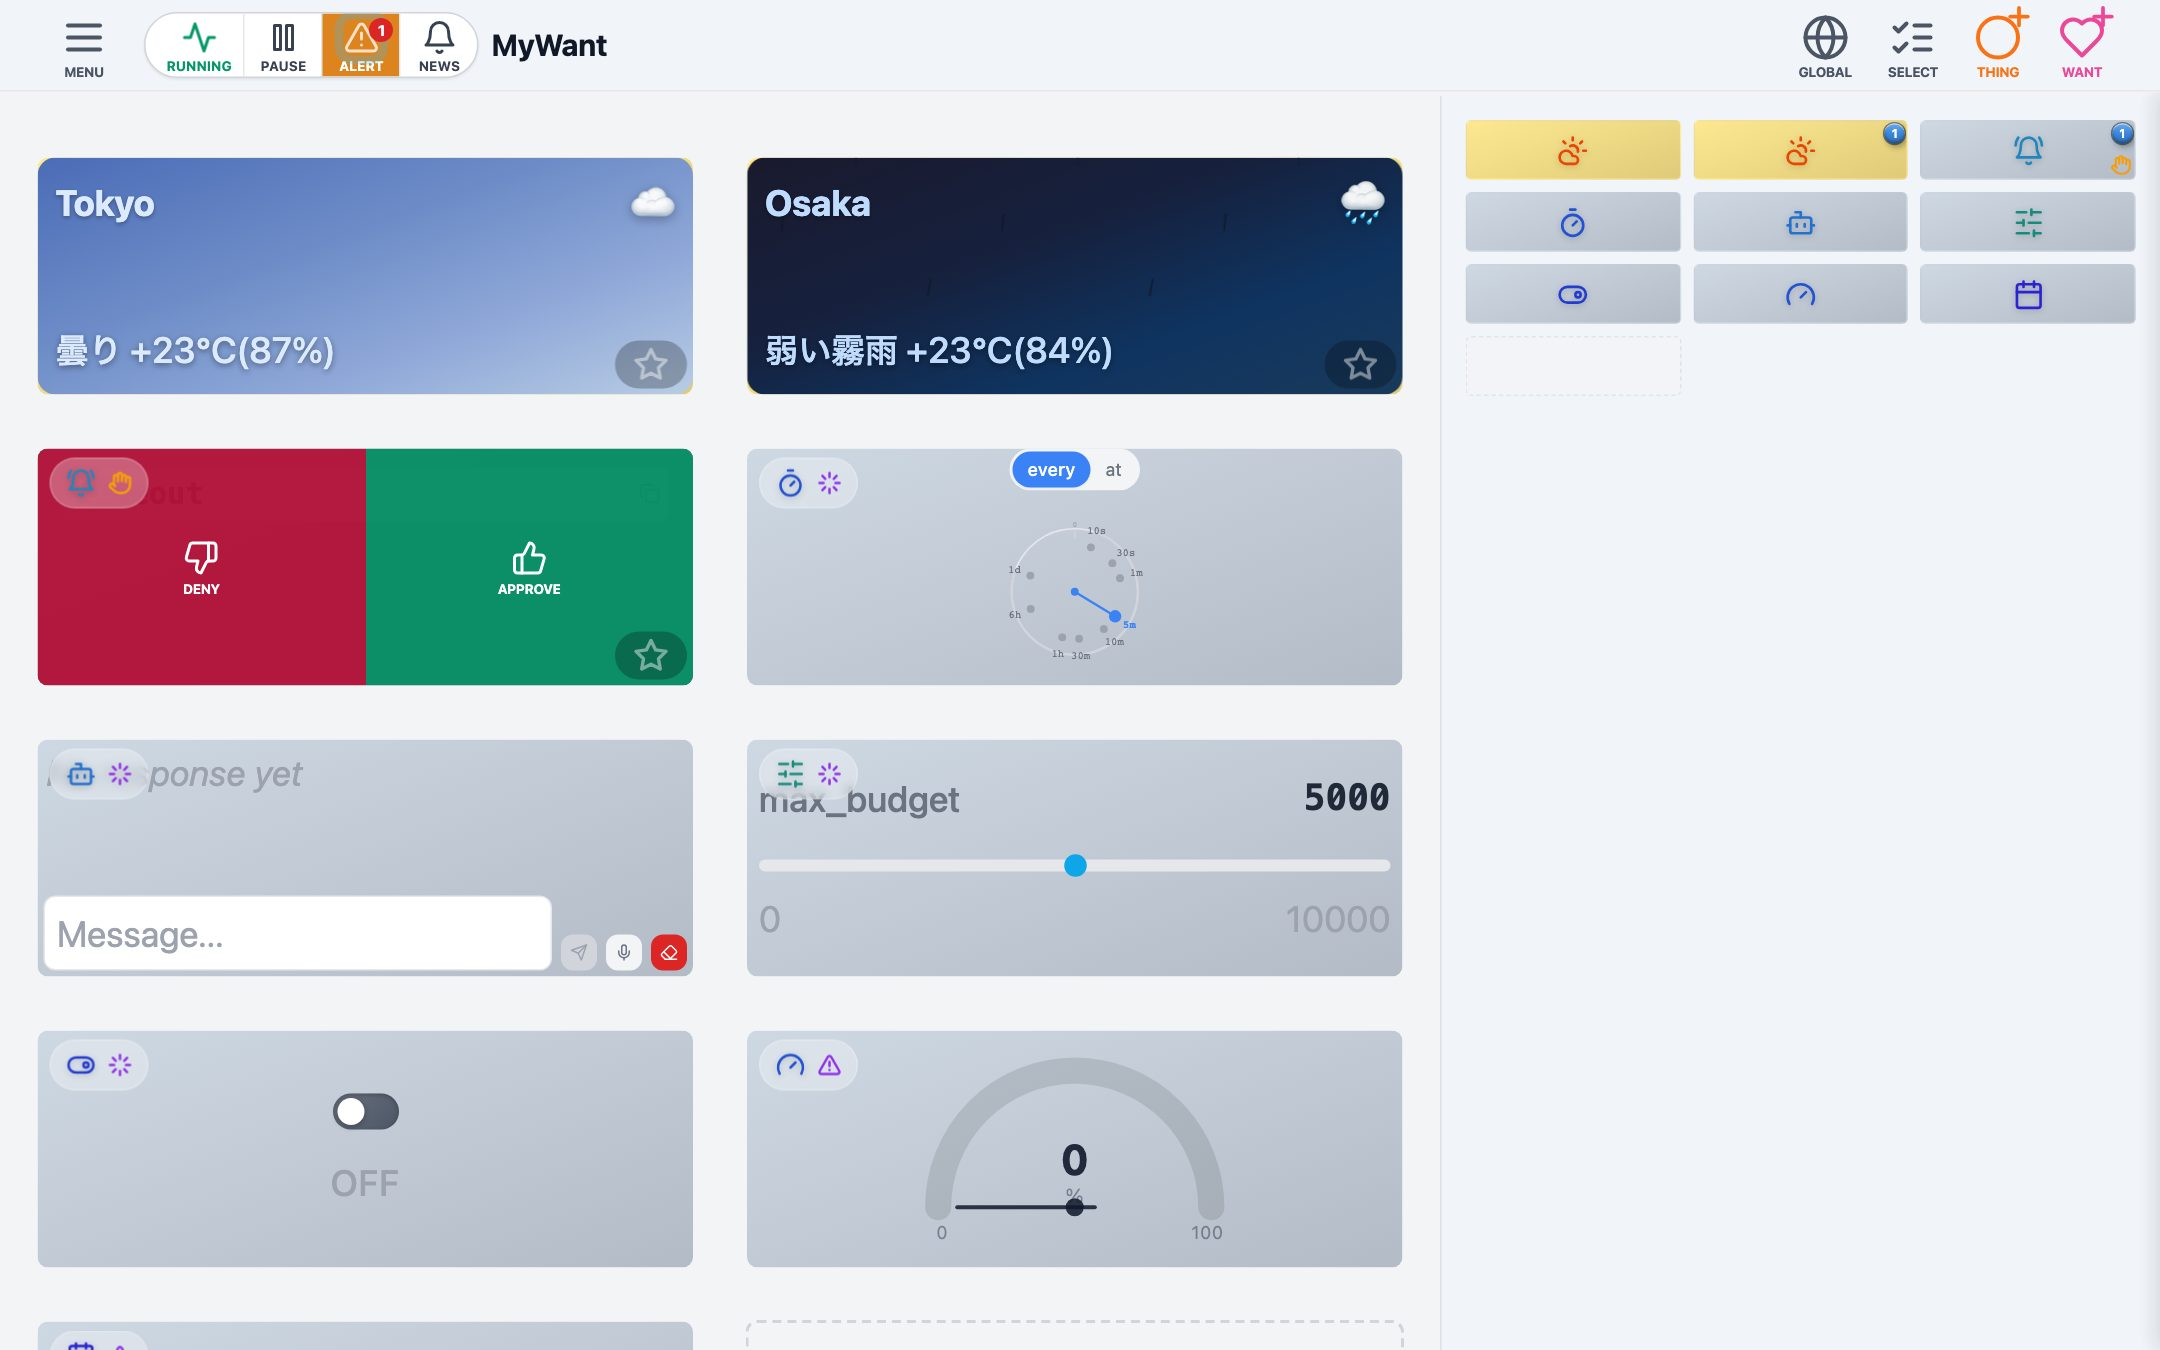
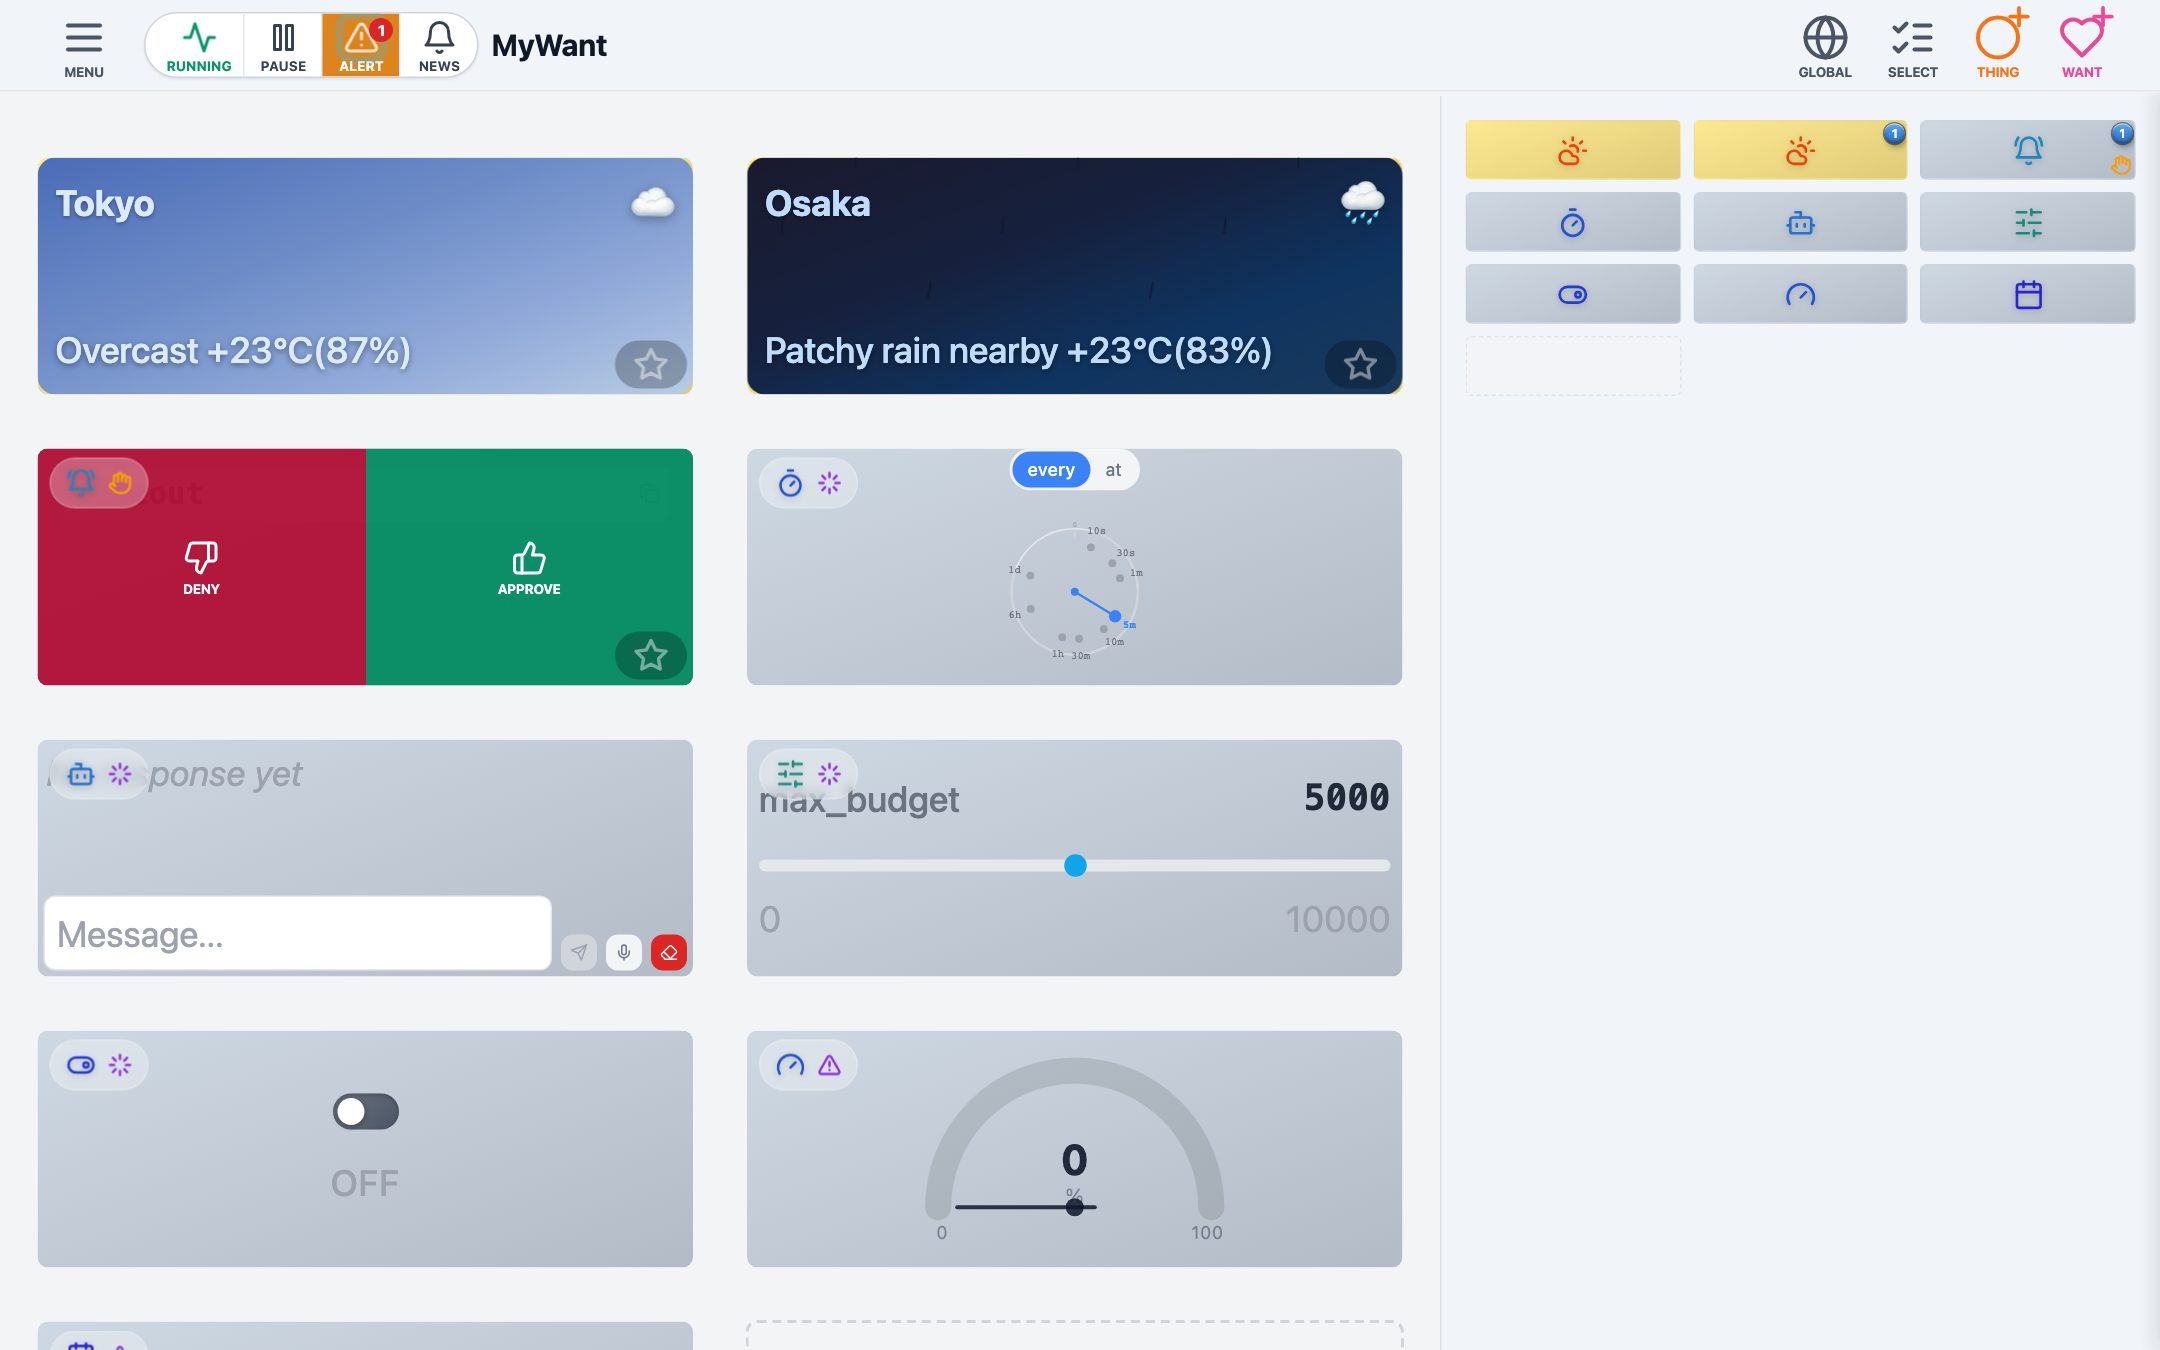
docs: screenshots retaken in English
The weather cards read in Japanese in every screenshot. Retaken from the demo
instance with English weather, for the README and the guide.

Changed region(s): [[0.3412, 0.2489, 0.5894, 0.28], [0.031, 0.2489, 0.1861, 0.28]]

diff --git a/README.md b/README.md
@@ -1,6 +1,6 @@
 # MyWant
 
-![The MyWant dashboard (mywant-gui)](docs/img/gui-dashboard.png)
+![The MyWant dashboard (mywant-gui)](docs/img/gui-dashboard.jpg)
 
 **Declarative chain programming with YAML configuration.** Express what you want to achieve, not how to do it.
 
@@ -91,7 +91,7 @@ mywant wants create -t reminder -e   # place a type's own example
 
 ### mywant-gui — the dashboard
 
-![mywant-gui's Add Want form](docs/img/gui-add-want.png)
+![mywant-gui's Add Want form](docs/img/gui-add-want.jpg)
 
 The open-source web GUI ([onelittlenightmusic/mywant-gui](https://github.com/onelittlenightmusic/mywant-gui)). A header, a grid of cards and a sidebar: every want as a card with its live state, an Add Want form built from each type's parameters, and pages for things, want types, worlds, agents, recipes and logs. Keyboard- and phone-friendly, and scriptable from its CLI (`mywant-gui show want <ID>`, `mywant-gui capture want <ID>`, …). Extensions can add pages, menu entries and designs at runtime.
 
@@ -99,7 +99,7 @@ The open-source web GUI ([onelittlenightmusic/mywant-gui](https://github.com/one
 
 ### mywant-guiex — the canvas
 
-![mywant-guiex canvas](docs/img/guiex-canvas.png)
+![mywant-guiex canvas](docs/img/guiex-canvas.jpg)
 
 An extension of mywant-gui that lays your wants out as tiles on a board. Things float beside the wants that use them, wires show how wants connect, and a character walks the board — press a tile to open it, or drive the board from `mywant guiex`. Install it with `brew install mywant-guiex`; the dashboard picks it up on its next start.
 
